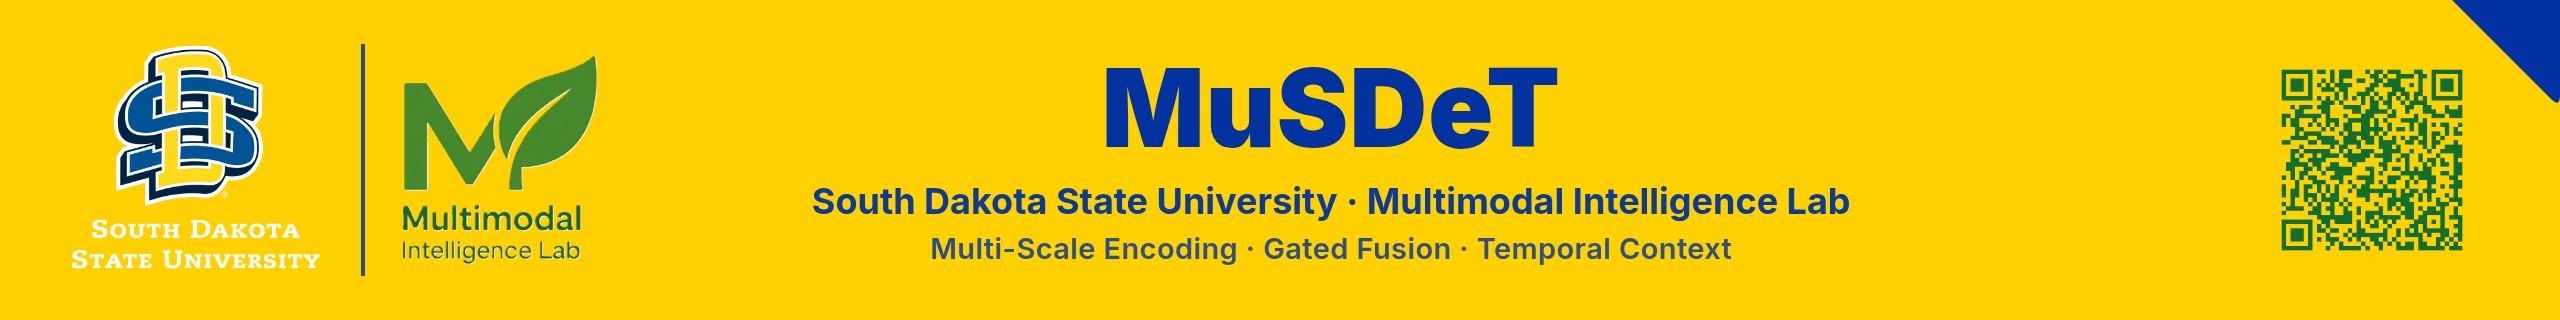
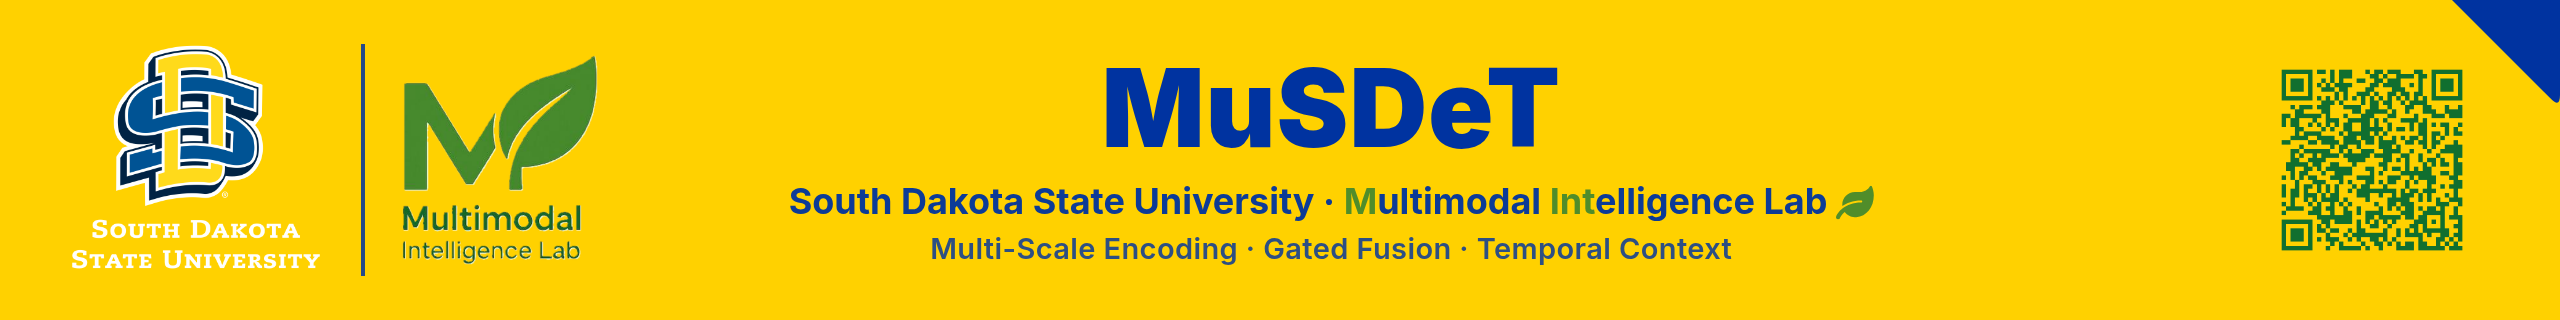
Re-render readme-header outputs + docs samples for the wordmark treatment

Changed region(s): [[0.3125, 0.5625, 0.75, 0.6875]]

diff --git a/readme-header/dist/mint-brand-hero.html b/readme-header/dist/mint-brand-hero.html
@@ -3,7 +3,7 @@
 <head>
   <base href="file:///mmfs1/scratch/jacks.local/mali9292/SIGIR/mint-brand/readme-header/">
 <meta charset="utf-8">
-<title>MINT README header</title>
+<title>MINT Brand Kit — repo banner</title>
 <style>
   @import "../brand/colors.css";
   @import "../brand/wordmark.css";   /* .mint-name .g / .leaf — the lab-name treatment in .affil */
@@ -14,15 +14,13 @@
   }
   * { box-sizing: border-box; }
   html, body { margin: 0; padding: 0; }
-  /* The lab's GitHub README banner — same brand identity as the deck and the poster band
-     (SDSU|MINT lockup left · big --sdsu-blue title centered · QR right · blue corner triangle),
-     ported to a 1280×160 (8:1) banner so the title reads at GitHub's rendered width. Flat
-     --sdsu-yellow ground, opaque + full-bleed, so the ONE PNG reads on light AND dark GitHub themes.
-     Text uses the brand token --sdsu-blue (never raw hex). Don't edit the chrome below — edit only
-     the marked content in <body>. Keep the title SHORT (the big type is the point); for a long title
-     drop the .title font-size a few px — .center is clipped by the band. Re-render with: node build.mjs */
+  /* Repo banner — the header at the top of the root README. This repo's own filled instance of the
+     header.html template (same 1280×160 flat-gold banner chrome), with the brand-kit's own copy:
+     SDSU|MINT lockup left · title centered · QR right · blue corner triangle. Flat --sdsu-yellow ground,
+     opaque + full-bleed, so one PNG reads on light AND dark GitHub themes. Never paste hex.
+     Render: node build.mjs mint-brand-hero.html 1280x160 */
   .banner {
-    width: 1280px; height: 160px;            /* banner — keep fixed; tune the title, not this */
+    width: 1280px; height: 160px;            /* band height — keep fixed; tune the title, not this */
     font-family: "Inter", -apple-system, sans-serif;
     position: relative; overflow: hidden;
     background: var(--sdsu-yellow); color: var(--sdsu-blue);
@@ -41,13 +39,12 @@
   }
   .center .title   { font-size: 54px; font-weight: 900; line-height: 1.02; letter-spacing: 0.4px; margin: 0; }
   .center .affil   { font-size: 18px; font-weight: 700; margin: 8px 0 0; opacity: 0.95; }
-  .center .extras  { font-size: 14.5px; font-weight: 600; margin: 4px 0 0; opacity: 0.82; letter-spacing: 0.2px; white-space: nowrap; }
+  .center .artifacts { font-size: 14.5px; font-weight: 600; margin: 4px 0 0; opacity: 0.82; letter-spacing: 0.2px; white-space: nowrap; }
   .qr { position: absolute; right: 40px; top: 50%; transform: translateY(-50%); height: 108px; width: auto; z-index: 2; }
 </style>
 </head>
 <body>
 <div class="banner">
-  <!-- brand chrome — do not edit -->
   <svg class="corner" viewBox="0 0 100 100" preserveAspectRatio="none" aria-hidden="true">
     <path style="fill:var(--sdsu-blue)" d="M0 0 L100 0 L100 88 Q100 100 92 92 Z"/>
   </svg>
@@ -56,16 +53,12 @@
     <span class="sep"></span>
     <img class="mint" src="../brand/logos/mint-logo.png" alt="Multimodal Intelligence Lab">
   </div>
-
-  <!-- ↓↓↓ EDIT FOR YOUR PROJECT ↓↓↓ -->
   <div class="center">
-    <p class="title"><b>MuSDeT</b></p>
+    <p class="title"><b>MINT Brand Kit</b></p>
     <p class="affil mint-name">South Dakota State University &middot; <span class="g">M</span>ultimodal <span class="g">Int</span>elligence Lab&nbsp;<svg class="leaf" viewBox="0 0 576 512" aria-hidden="true"><path d="M546.2 9.7c-5.6-12.5-21.6-13-28.3-1.2C486.9 62.4 431.4 96 368 96h-80C182 96 96 182 96 288c0 7 .8 13.7 1.5 20.5C161.3 262.8 253.4 224 384 224c8.8 0 16 7.2 16 16s-7.2 16-16 16C132.6 256 26 410.1 2.4 468c-6.6 16.3 1.2 34.9 17.5 41.6 16.4 6.8 35-1.1 41.8-17.3 1.5-3.6 20.9-47.9 71.9-90.6 32.4 43.9 94 85.8 174.9 77.2C465 467.5 576 326.7 576 144c0-44.5-13.9-93.4-29.8-134.3z"/></svg></p>
-    <p class="extras">Multi-Scale Encoding &middot; Gated Fusion &middot; Temporal Context</p>
+    <p class="artifacts">Posters &middot; Slides &middot; README Headers &middot; Demo Pages &middot; Teasers</p>
   </div>
-  <!-- QR → the lab GitHub org by default; swap for your project QR or delete the line to drop it -->
   <img class="qr" src="../brand/qr/mint-lab-qr.png" alt="Lab QR — github.com/Multimodal-Intelligence-Lab">
-  <!-- ↑↑↑ EDIT FOR YOUR PROJECT ↑↑↑ -->
 </div>
 </body>
 </html>

diff --git a/readme-header/dist/clip-cc-bench.html b/readme-header/dist/clip-cc-bench.html
@@ -15,17 +15,20 @@
   * { box-sizing: border-box; }
   html, body { margin: 0; padding: 0; }
   /* The lab's GitHub README banner — same brand identity as the deck and the poster band
-     (SDSU|MINT lockup left · big --sdsu-blue title centered · QR right · blue corner triangle),
+     (SDSU|MINT lockup left · big brand-blue title centered · QR right · blue corner triangle),
      ported to a 1280×160 (8:1) banner so the title reads at GitHub's rendered width. Flat
      --sdsu-yellow ground, opaque + full-bleed, so the ONE PNG reads on light AND dark GitHub themes.
-     Text uses the brand token --sdsu-blue (never raw hex). Don't edit the chrome below — edit only
+     Text uses a brand token, never raw hex (which one: see the note below). Don't edit the chrome — edit only
      the marked content in <body>. Keep the title SHORT (the big type is the point); for a long title
      drop the .title font-size a few px — .center is clipped by the band. Re-render with: node build.mjs */
+  /* This banner is set in Campanile Blue (PMS 287, --sdsu-campanile) — the SDSU official secondary
+     the lab's printed poster uses — rather than the PMS 286 primary (--sdsu-blue). Both are brand
+     tokens from ../brand/colors.css; no local hex, no override of a token's meaning. */
   .banner {
     width: 1280px; height: 160px;            /* banner — keep fixed; tune the title, not this */
     font-family: "Inter", -apple-system, sans-serif;
     position: relative; overflow: hidden;
-    background: var(--sdsu-yellow); color: var(--sdsu-blue);
+    background: var(--sdsu-yellow); color: var(--sdsu-campanile);
   }
   .corner { position: absolute; top: 0; right: 0; width: 54px; height: 54px; z-index: 3; }   /* 0.34 × band-h, as the poster */
   .lockup {
@@ -33,8 +36,8 @@
     z-index: 2; display: flex; align-items: center; gap: 18px;
   }
   .lockup .sdsu { height: 116px; width: auto; display: block; }   /* ~72% of band, as the deck/poster */
+  .lockup .sep  { width: 2px; align-self: stretch; background: var(--sdsu-campanile); opacity: 0.85; }
   .lockup .mint { height: 106px; width: auto; display: block; }
-  .lockup .sep  { width: 2px; align-self: stretch; background: var(--sdsu-blue); opacity: 0.85; }
   .center {
     position: absolute; left: 20%; right: 16%; top: 50%; transform: translateY(-50%);
     text-align: center; z-index: 2;
@@ -49,7 +52,7 @@
 <div class="banner">
   <!-- brand chrome — do not edit -->
   <svg class="corner" viewBox="0 0 100 100" preserveAspectRatio="none" aria-hidden="true">
-    <path style="fill:var(--sdsu-blue)" d="M0 0 L100 0 L100 88 Q100 100 92 92 Z"/>
+    <path style="fill:var(--sdsu-campanile)" d="M0 0 L100 0 L100 88 Q100 100 92 92 Z"/>
   </svg>
   <div class="lockup">
     <img class="sdsu" src="../brand/logos/sdsu-logo.png" alt="South Dakota State University">
@@ -59,9 +62,9 @@
 
   <!-- ↓↓↓ EDIT FOR YOUR PROJECT ↓↓↓ -->
   <div class="center">
-    <p class="title"><b>MuSDeT</b></p>
+    <p class="title"><b>CLIP-CC-Bench</b></p>
     <p class="affil mint-name">South Dakota State University &middot; <span class="g">M</span>ultimodal <span class="g">Int</span>elligence Lab&nbsp;<svg class="leaf" viewBox="0 0 576 512" aria-hidden="true"><path d="M546.2 9.7c-5.6-12.5-21.6-13-28.3-1.2C486.9 62.4 431.4 96 368 96h-80C182 96 96 182 96 288c0 7 .8 13.7 1.5 20.5C161.3 262.8 253.4 224 384 224c8.8 0 16 7.2 16 16s-7.2 16-16 16C132.6 256 26 410.1 2.4 468c-6.6 16.3 1.2 34.9 17.5 41.6 16.4 6.8 35-1.1 41.8-17.3 1.5-3.6 20.9-47.9 71.9-90.6 32.4 43.9 94 85.8 174.9 77.2C465 467.5 576 326.7 576 144c0-44.5-13.9-93.4-29.8-134.3z"/></svg></p>
-    <p class="extras">Multi-Scale Encoding &middot; Gated Fusion &middot; Temporal Context</p>
+    <p class="extras">Paragraph-Level Video Description Benchmark &middot; EvalMG @ SIGIR 2026</p>
   </div>
   <!-- QR → the lab GitHub org by default; swap for your project QR or delete the line to drop it -->
   <img class="qr" src="../brand/qr/mint-lab-qr.png" alt="Lab QR — github.com/Multimodal-Intelligence-Lab">
